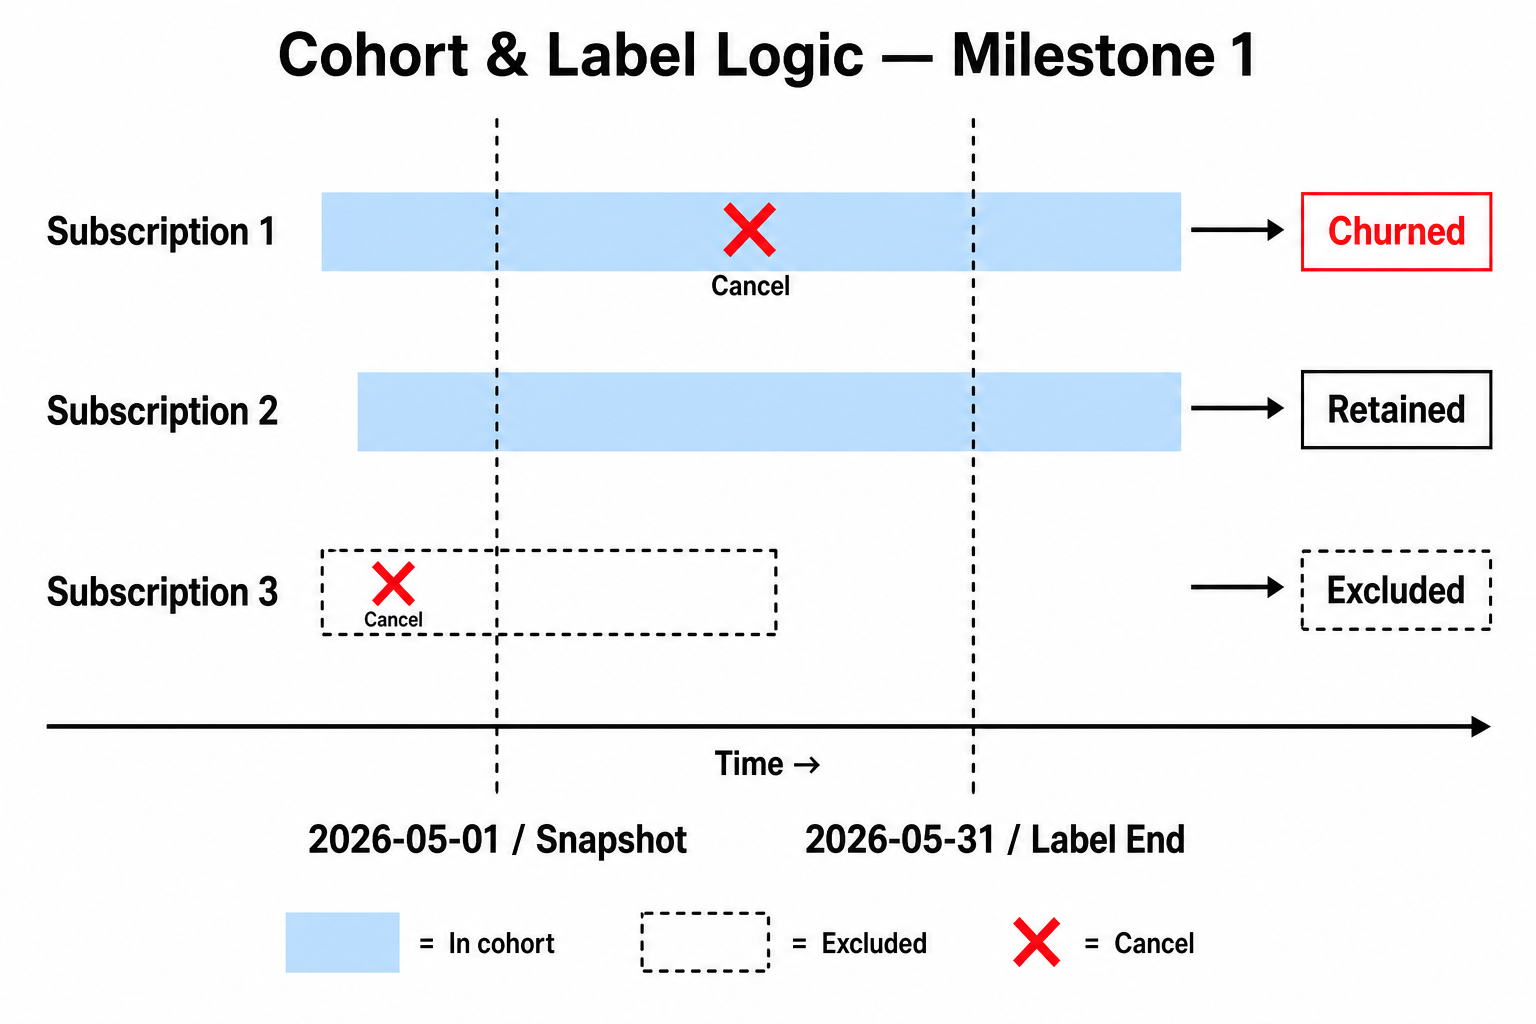
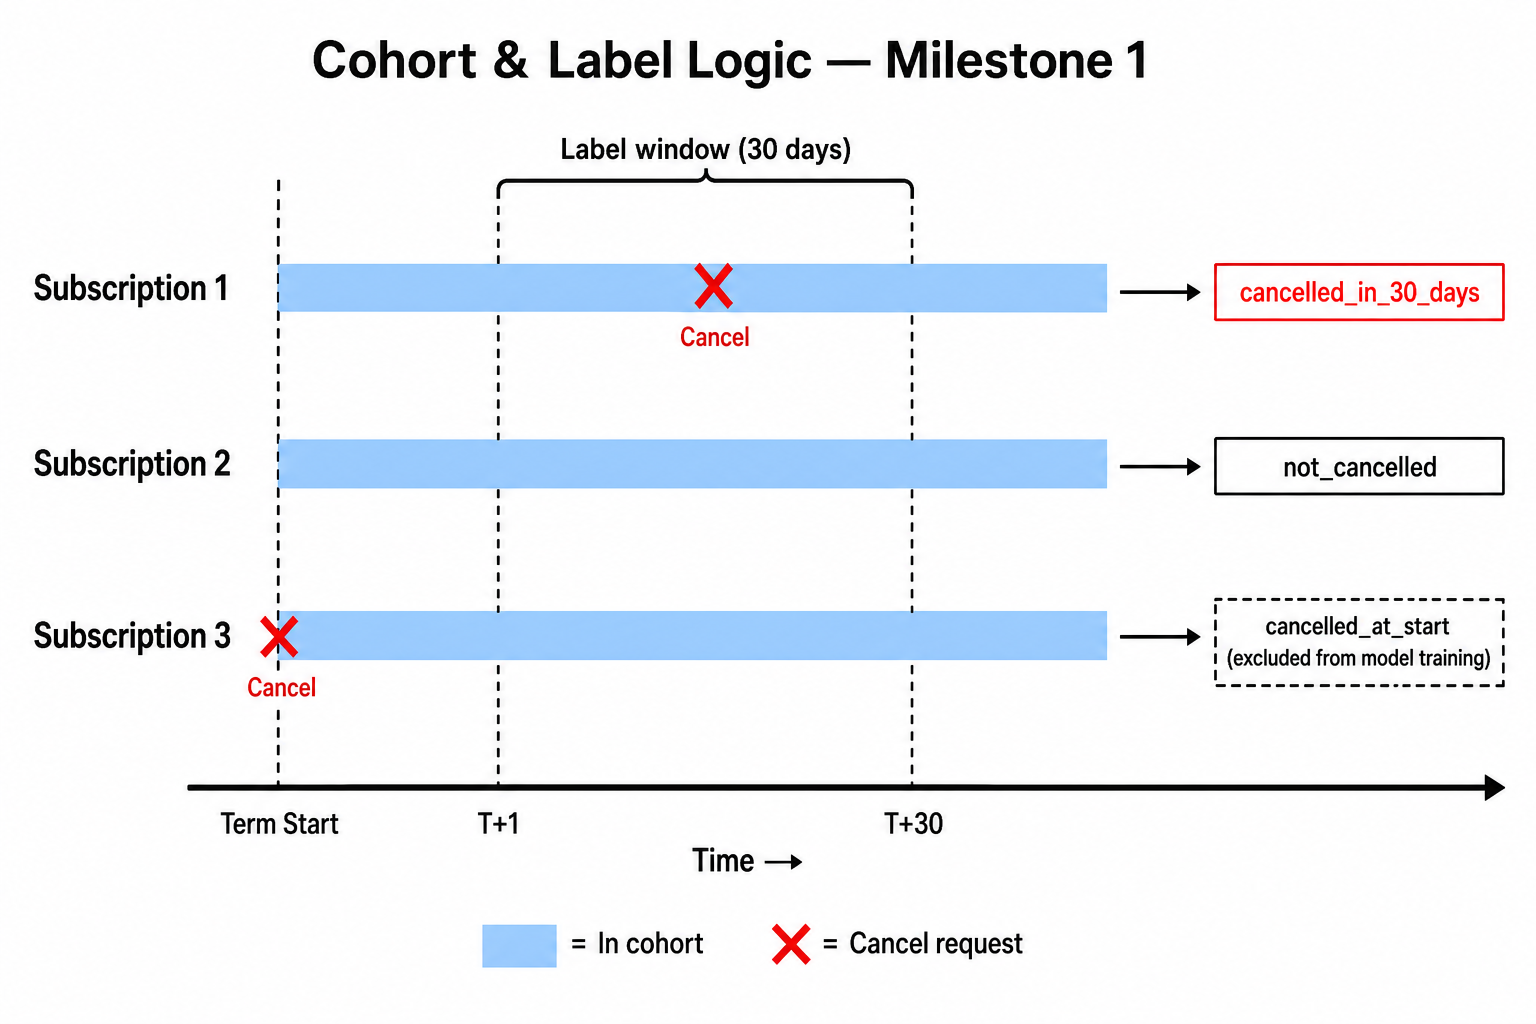
Update label logic: [T+1, T+30] window, three-way cancel_status, updated diagram

diff --git a/docs/key_definitions.md b/docs/key_definitions.md
@@ -26,64 +26,46 @@
 
 ## Modeling (Milestone 1)
 
-**Prediction point:** the moment at which features are frozen and the model asks "will this subscriber cancel in the next 30 days?" Each subscriber generates multiple prediction points depending on the rolling window approach used (see below).
+**Prediction point (T):** `term_started_at::date` — the date the subscription term started. Features are frozen at T (all data up to and including T is used).
 
-**Label window:** 30 days starting from each prediction point (inclusive on both ends).
+**Label window:** T+1, T+30 — the 30 days **after** T, excluding T itself.
 
-**Label end date:** `prediction_point + 29 days` per observation. The outer constraint is that this must fall within the data pull date (2026-06-30), so the latest valid prediction point is 2026-06-01.
+> Same-day cancellations (`cancel_requested_at = term_started_at::date`) are tracked separately as `cancelled_at_start` in the label table and excluded from model training (they are already-decided before the model could act).
 
-![Cohort & Label Logic](cohort_label_logic.png)
+Cohort & Label Logic
 
-**Cohort:** all active, non-reactivated subscription terms. No fixed snapshot date — the prediction point varies per subscriber and per observation window.
+**Cohort:** all active, non-reactivated, activated subscription terms that started before the data cutoff (2026-06-01), filtered to `is_activated = TRUE AND is_paid = TRUE`.
 
-> Table: `ed_silver_subscription_terms_qualified` (base pool; date filtering applied per prediction point in rolling window logic)
+> Table: `ed_silver_subscription_terms_qualified`
 
-```
--- Base cohort filter (applied once)
-term_started_at < '2026-06-01'           -- must have started before data cutoff
-AND NOT (                                 -- exclude reactivated terms
-    term_number > 1
-    AND is_new_start = FALSE
-    AND EXISTS (
-        SELECT 1 FROM subscription_terms prev
-        WHERE prev.subscription_id = t.subscription_id
-          AND prev.term_number = t.term_number - 1
-          AND prev.term_ended_at IS NOT NULL
-    )
-)
+```sql
+-- JOIN to ed_bronze_subscriptions WHERE is_paid = TRUE AND is_activated = TRUE
+-- term_started_at < '2026-06-01'
+-- term_number = 1  (first term only; reactivated terms excluded)
 ```
 
-**Reactivated terms:** (a subscriber churned and started a new term under the same `subscription_id`) are excluded. They have different behavior from continuously renewing subscribers and will be modeled separately in future milestones.
-
-**Label:** did the subscriber request cancellation within 30 days after the prediction point?
+**Label:** three-way classification in `ed_silver_subscription_term_start_labels`:
 
 ```
-is_cancelled = 1  if cancel_requested_at BETWEEN prediction_point
-                                              AND DATEADD(DAY, 29, prediction_point)
+cancel_status = 'cancelled_in_30_days'  if cancel_requested_at BETWEEN T+1 AND T+30
+cancel_status = 'cancelled_at_start'    if cancel_requested_at = T  (excluded from model training)
+cancel_status = 'not_cancelled'         otherwise
+
+is_cancelled = 1  if cancel_requested_at BETWEEN T AND T+30  (includes day 0, for EDA)
 is_cancelled = 0  otherwise
+
+Model training label: cancel_status IN ('cancelled_in_30_days', 'not_cancelled')
 ```
 
-> SQL BETWEEN is inclusive on both ends, so +29 days gives exactly 30 days (day 0 through day 29).
-
-**Label (Milestone 1):** did the subscriber request cancellation within 30 days of the prediction point?
-
-```
-is_cancelled = 1  if cancel_requested_at BETWEEN prediction_point
-                                              AND DATEADD(DAY, 29, prediction_point)
-is_cancelled = 0  otherwise
-```
-
-> Subscriptions are auto-renew. A subscriber must actively cancel to stop being charged.
-> Therefore, voluntary churn = cancellation request. The label directly captures user intent.
+> `is_cancelled` includes day 0 to preserve fell-out context for EDA. Model training filters to `cancel_status != 'cancelled_at_start'`.
 
 **Voluntary churn:** churn driven by an explicit user cancellation request (`cancel_requested_at IS NOT NULL`).
 
-**Involuntary churn:** churn driven by payment failure (ask Kevin:`is_failed_payment_canceled = TRUE` at the term level). Involuntary churn is included in EDA but excluded from model training — it is not driven by user intent and is not actionable by a prevention model.
+**Involuntary churn:** churn driven by payment failure (`is_failed_payment_canceled = TRUE` at the term level). Included in EDA but excluded from model training — not driven by user intent and not actionable by a prevention model.
 
-**Reactivation:** A new term_id is created under the same susbcirption_id. not in scope for Milestone 1. Reactivation only became available after June 2026 and data is sparse. Churn is treated as irreversible for this milestone.
+**Reactivation:** a new `subscription_term_id` created under the same `subscription_id` after a churn. Not in scope for Milestone 1 — reactivation only became available after June 2026 and data is sparse. Churn is treated as irreversible for this milestone.
 
-**Deferred renewal:** a subscriber pushes their next renewal date to a later date
-(`event_name = 'term_renewal_time_changed' AND changed_by = 'CHANGED_BY_USER'` in `int_subs_kafka__events`).
+**Deferred renewal:** a subscriber pushes their next renewal date to a later date (`event_name = 'term_renewal_time_changed' AND changed_by = 'CHANGED_BY_USER'` in `int_subs_kafka__events`).
 
 **Production use:** the model scores all active subscriptions at any point in time and predicts:
 
@@ -129,12 +111,14 @@ Observation 3 (label=0): snapshot = cancel_requested_at - 90,   label window = [
 
 ### Comparison
 
-| | Forward | Backward |
-|---|---|---|
-| Anchor point | term_started_at | cancel_requested_at (churners) |
-| Non-churner anchor | Same (term_started_at) | Needs separate definition |
-| Mirrors production scoring | Yes | Partially |
-| Implementation | Straightforward | More complex for non-churners |
+
+|                            | Forward                | Backward                       |
+| -------------------------- | ---------------------- | ------------------------------ |
+| Anchor point               | term_started_at        | cancel_requested_at (churners) |
+| Non-churner anchor         | Same (term_started_at) | Needs separate definition      |
+| Mirrors production scoring | Yes                    | Partially                      |
+| Implementation             | Straightforward        | More complex for non-churners  |
+
 
 Both approaches will be implemented and evaluated. The better-performing one will be used for the final model.
 
@@ -143,4 +127,3 @@ Both approaches will be implemented and evaluated. The better-performing one wil
 ## Implementation notes
 
 - `Ask kevin: term_ended_at` is only populated when a subscription is already cancelled/terminated. For active subscriptions, use `term_active_until` for the expected end date.
-